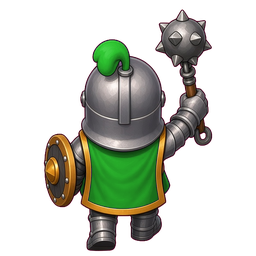
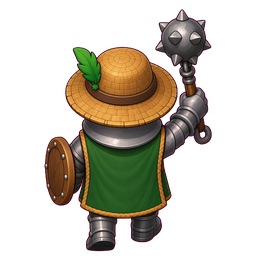
beta v27: illustrated home map, army-colored borders, new region color rules, save v2; longbow/cavalier/Green Army farmer sprites

Changed region(s): [[0.1562, 0.0312, 0.8438, 0.9688]]

diff --git a/beta/story.js b/beta/story.js
@@ -4,14 +4,15 @@
 (function () {
   'use strict';
   // ------------------------------------------------------------------ SAVE (localStorage, versioned)
-  const SAVE_KEY = 'royalBlight.story', SAVE_V = 1;
-  const freshSave = () => ({ v: SAVE_V, gold: 0, xp: 0, missions: {}, unlocks: ['pawn:sword', 'archer:long', 'worker', 'turret'], seen: [], created: Date.now() });
+  const SAVE_KEY = 'royalBlight.story', SAVE_V = 2;   // v27: v2 = illustrated map + new color rules (mapV)
+  const freshSave = () => ({ v: SAVE_V, gold: 0, xp: 0, missions: {}, unlocks: ['pawn:sword', 'archer:long', 'worker', 'turret'], seen: [], created: Date.now(), mapV: 2 });
   function migrate(s) {
     if (!s || typeof s !== 'object') return freshSave();
     const f = freshSave();
     const out = { v: SAVE_V, gold: Math.max(0, Math.floor(+s.gold || 0)), xp: Math.max(0, Math.floor(+s.xp || 0)),
       missions: {}, unlocks: Array.isArray(s.unlocks) ? s.unlocks.filter(x => typeof x === 'string').slice(0, 500) : f.unlocks,
-      seen: Array.isArray(s.seen) ? s.seen.filter(x => typeof x === 'string').slice(0, 500) : [], created: +s.created || Date.now() };
+      seen: Array.isArray(s.seen) ? s.seen.filter(x => typeof x === 'string').slice(0, 500) : [], created: +s.created || Date.now(),
+      mapV: 2, migratedFrom: (s.v | 0) < 2 ? (s.v | 0) || 1 : (s.migratedFrom || 0) };   // v1 -> v2: progress is derived from wins, so nothing is lost
     f.unlocks.forEach(u => { if (!out.unlocks.includes(u)) out.unlocks.push(u); });
     if (s.missions && typeof s.missions === 'object') for (const [id, m] of Object.entries(s.missions)) {
       if (!/^[A-Z0-9_]{2,8}$/.test(id) || !m) continue;
@@ -35,12 +36,12 @@
   // ------------------------------------------------------------------ WORLD DATA (from STORY_BIBLE.md)
   const G = { G1: 100, G2: 150, G3: 250, G4: 400, G5: 600 }, X = { X1: 50, X2: 80, X3: 120 };
   const REGIONS = {
-    paradale:  { name: 'Paradale',  ruler: 'King Rufus', dir: 'center', pos: [50, 50], missions: ['P0'], hub: true, cards: [] },
-    eastmarch: { name: 'Eastmarch', ruler: 'King Felix', dir: 'east', pos: [80, 50], missions: ['M01', 'M02', 'M03', 'M04', 'M05', 'M06', 'M07'],
+    paradale:  { name: 'Paradale',  ruler: 'King Rufus', dir: 'center', pos: [50, 47], missions: ['P0'], hub: true, cards: [] },
+    eastmarch: { name: 'Eastmarch', ruler: 'King Felix', dir: 'east', pos: [84, 52], missions: ['M01', 'M02', 'M03', 'M04', 'M05', 'M06', 'M07'],
                  cards: [['map:farmland', '\u{1F33E}', 'Burning Farmland map'], ['pawn:shield', '\u{1F6E1}', 'Sword & Shield pawn'], ['army:green', '\u{1F49A}', 'Green Army + King Felix'], ['archer:flame', '\u{1F525}', 'Flame Arrow archer'], ['hero:cavalier', '\u{1F40E}', 'The Cavalier']] },
-    westreach: { name: 'Westreach', ruler: 'King Glade', dir: 'west', pos: [20, 50], missions: [], count: 8, soon: true, cards: [['map:library', '\u{1F4DA}', '?'], ['wizard:base', '\u{1F52E}', '?']] },
-    northcrag: { name: 'Northcrag', ruler: 'King Cline', dir: 'north', pos: [50, 20], missions: [], count: 8, soon: true, cards: [['map:pass', '\u26F0', '?']] },
-    southmire: { name: 'Southmire', ruler: 'General Drevlar', dir: 'south', pos: [50, 80], missions: [], count: 8, soon: true, cards: [['map:swamp', '\u{1F480}', '?']] }
+    westreach: { name: 'Westreach', ruler: 'King Glade', dir: 'west', pos: [16, 50], missions: [], count: 8, soon: true, cards: [['map:library', '\u{1F4DA}', '?'], ['wizard:base', '\u{1F52E}', '?']] },
+    northcrag: { name: 'Northcrag', ruler: 'King Cline', dir: 'north', pos: [50, 15], missions: [], count: 8, soon: true, cards: [['map:pass', '\u26F0', '?']] },
+    southmire: { name: 'Southmire', ruler: 'General Drevlar', dir: 'south', pos: [50, 83], missions: [], count: 8, soon: true, cards: [['map:swamp', '\u{1F480}', '?']] }
   };
   // Mission definitions. Engine keys:
   //  ai {level, strat, income, think}, gold (start), cards (allowed player cards), cap (max player army), map,
@@ -111,14 +112,29 @@
   // ------------------------------------------------------------------ PROGRESS / COLORS
   const won = id => (SAVE.missions[id] && SAVE.missions[id].wins > 0);
   function regionColor(rk) {
-    const r = REGIONS[rk]; if (r.hub) return won('P0') ? 'blue' : 'blue';
-    const ms = r.missions, n = ms.length || r.count; if (!ms.length) return 'red';
+    // v27 color rules: every region starts GREEN (peace). After the Prologue the realm turns YELLOW (contact lost),
+    // except Eastmarch which goes RED (Felix's Green Army is burning it). Then red -> orange -> yellow -> lightgreen -> green.
+    const r = REGIONS[rk]; if (!won('P0')) return 'green';
+    if (r.hub) return 'blue';
+    const ms = r.missions, n = ms.length || r.count; if (!ms.length) return rk === 'eastmarch' ? 'red' : 'yellow';
     const w = ms.filter(won).length, final = ms[ms.length - 1];
     if (won(final)) return 'green';
     if (w === 0) return 'red';
     if (w === n - 1) return 'lightgreen';
     if (w >= Math.ceil(n / 2)) return 'yellow';
     return 'orange';
+  }
+  // v27 controlling army per region (border color). A freed region flies the Royal Blue of Paradale.
+  const ARMY = { paradale: ['Royal Blue', '#2563eb'], eastmarch: ['Green Army', '#22c55e'], westreach: ['Yellow Army', '#eab308'], northcrag: ['Silver Army', '#e5e7eb'], southmire: ['Grave Purple', '#9333ea'] };
+  function controller(rk) { const r = REGIONS[rk]; if (r.hub || (r.missions.length && won(r.missions[r.missions.length - 1]))) return ARMY.paradale; return ARMY[rk]; }
+  const MAP_C = [50, 47], DIRA = { east: 0, south: 90, west: 180, north: 270 };
+  function regionPath(rk) {             // wedge between the capital ring and the coast, in 0-100 map space
+    const r = REGIONS[rk], [cx, cy] = MAP_C, P = [];
+    if (r.hub) { for (let i = 0; i < 24; i++) { const a = i / 24 * Math.PI * 2; P.push([cx + Math.cos(a) * 17, cy + Math.sin(a) * 15]); } }
+    else { const a0 = (DIRA[r.dir] - 44) * Math.PI / 180, a1 = (DIRA[r.dir] + 44) * Math.PI / 180;
+      for (let i = 0; i <= 12; i++) { const a = a0 + (a1 - a0) * i / 12, w = 1 + 0.05 * Math.sin(i * 1.7); P.push([cx + Math.cos(a) * 45 * w, cy + Math.sin(a) * 44 * w]); }
+      for (let i = 12; i >= 0; i--) { const a = a0 + (a1 - a0) * i / 12; P.push([cx + Math.cos(a) * 19, cy + Math.sin(a) * 17]); } }
+    return 'M' + P.map(p => p[0].toFixed(1) + ' ' + p[1].toFixed(1)).join(' L') + ' Z';
   }
   const COLOR = { red: '#dc2626', orange: '#f97316', yellow: '#facc15', lightgreen: '#86efac', green: '#16a34a', blue: '#3b82f6' };
   function missionOpen(id) { const m = M[id], ms = REGIONS[m.region].missions, i = ms.indexOf(id); return i <= 0 || won(ms[i - 1]); }
@@ -497,17 +513,22 @@
     $('modal-menu').classList.add('hidden'); $('modal-gameover').classList.add('hidden'); $('modal-story').classList.remove('hidden');
     $('st-purse').textContent = `\u{1FA99} ${SAVE.gold}  \u2B50 XP ${SAVE.xp} (Lv ${level()})`;
     const map = $('st-map');
-    const paths = Object.values(REGIONS).filter(r => !r.hub).map(r => `<line x1="50" y1="50" x2="${r.pos[0]}" y2="${r.pos[1]}" stroke="#a16207" stroke-width="0.8" stroke-dasharray="2 1.5"/>`).join('');
-    map.innerHTML = `<svg viewBox="0 0 100 100" class="absolute inset-0 w-full h-full">${paths}<circle cx="50" cy="50" r="46" fill="none" stroke="#e7e5e4" stroke-opacity="0.12" stroke-width="6" stroke-dasharray="3 4"/></svg>` +
+    // v27: illustrated kingdom map; each region = progress-tinted area with a border in its controlling army's color
+    const shapes = Object.keys(REGIONS).map(k => { const col = COLOR[regionColor(k)], [an, ac] = controller(k);
+      return `<path d="${regionPath(k)}" fill="${col}" fill-opacity="0.26" stroke="#000" stroke-opacity="0.45" stroke-width="2.4" stroke-linejoin="round"/>` +
+             `<path d="${regionPath(k)}" fill="none" stroke="${ac}" stroke-width="1.3" stroke-linejoin="round" stroke-dasharray="${REGIONS[k].hub ? 'none' : '3 1.2'}"><title>${an}</title></path>`; }).join('');
+    map.style.background = "url('assets/kingdom_map.jpg') center/cover"; map.style.borderRadius = '14px'; map.style.boxShadow = '0 6px 24px #0009';
+    map.innerHTML = `<svg viewBox="0 0 100 100" class="absolute inset-0 w-full h-full">${shapes}</svg>` +
       Object.entries(REGIONS).map(([k, r]) => {
         const col = regionColor(k), w = r.missions.filter(won).length, n = r.missions.length || r.count;
         const pulse = col === 'lightgreen' ? 'animation:stpulse 1.2s infinite' : '';
+        const [an, ac] = controller(k), sz = r.hub ? 40 : 34;
         return `<button data-region="${k}" class="absolute -translate-x-1/2 -translate-y-1/2 flex flex-col items-center" style="left:${r.pos[0]}%;top:${r.pos[1]}%">
-          <div class="rounded-full border-4 border-black/40 shadow-xl flex items-center justify-center text-xl" style="width:${r.hub ? 64 : 56}px;height:${r.hub ? 64 : 56}px;background:${COLOR[col]};${pulse}">${r.hub ? '\u{1F3F0}' : r.soon ? '\u2601' : '\u{1F3F0}'}</div>
-          <div class="mt-0.5 px-1.5 rounded bg-black/70 text-[10px] font-black text-white leading-tight">${r.name}<br><span class="text-[9px] font-bold" style="color:${COLOR[col]}">${r.soon ? 'coming soon' : r.hub ? (won('P0') ? 'Prologue \u2713' : 'Prologue') : w + '/' + n}</span></div></button>`;
+          <div class="rounded-full shadow-xl flex items-center justify-center text-base" style="width:${sz}px;height:${sz}px;background:${COLOR[col]};border:3px solid ${ac};${pulse}">${r.hub ? '\u{1F3F0}' : r.soon ? '\u2601' : '\u2694'}</div>
+          <div class="mt-0.5 px-1.5 rounded bg-black/70 text-[10px] font-black text-white leading-tight">${r.name}<br><span class="text-[9px] font-bold" style="color:${COLOR[col]}">${r.soon ? 'coming soon' : r.hub ? (won('P0') ? 'Prologue \u2713' : 'Prologue') : w + '/' + n}</span><br><span class="text-[8px] font-bold" style="color:${ac}">${an}</span></div></button>`;
       }).join('') + `<style>@keyframes stpulse{0%,100%{box-shadow:0 0 0 0 #86efac}50%{box-shadow:0 0 0 10px #86efac00}}</style>`;
     map.querySelectorAll('button[data-region]').forEach(b => b.onclick = () => S.openRegion(b.dataset.region));
-    $('st-legend').innerHTML = [['red', 'Not started'], ['orange', '1+ win'], ['yellow', 'Last half'], ['lightgreen', 'Final left'], ['green', 'Cleared']].map(([c, t]) => `<span class="px-1.5 py-0.5 rounded" style="background:${COLOR[c]}33;border:1px solid ${COLOR[c]}">${t}</span>`).join('');
+    $('st-legend').innerHTML = (won('P0') ? [['red', 'Under attack'], ['orange', '1+ win'], ['yellow', 'Contested / no contact'], ['lightgreen', 'Final left'], ['green', 'Freed']] : [['green', 'At peace \u2014 play the Prologue']]).map(([c, t]) => `<span class="px-1.5 py-0.5 rounded" style="background:${COLOR[c]}33;border:1px solid ${COLOR[c]}">${t}</span>`).join('');
     S.openRegion(S.curRegion || (won('P0') ? 'eastmarch' : 'paradale'));
   };
   S.openRegion = function (rk) {

diff --git a/beta/index.html b/beta/index.html
@@ -11,7 +11,7 @@
   <link rel="manifest" href="manifest.json">
   <link rel="apple-touch-icon" href="assets/icons/apple-touch-icon.png">
   <link rel="icon" type="image/png" sizes="192x192" href="assets/icons/icon-192.png">
-  <title>Royal Blight BETA v26</title>
+  <title>Royal Blight BETA v27</title>
   <!-- Tailwind CSS CDN -->
   <script src="assets/tailwind.js"></script>
   <!-- Google Fonts: Fredoka for chunky mobile strategy UI, Inter for crisp stats -->
@@ -303,7 +303,7 @@
     <div id="modal-menu" class="absolute inset-0 z-50 bg-black/80 backdrop-blur-md flex flex-col items-center justify-center p-6 text-center">
       <div class="text-5xl mb-2">👑 ⚔ 💀</div>
       <h1 class="text-3xl font-black text-amber-400 uppercase tracking-wider">Royal Blight</h1>
-      <p class="text-slate-300 text-xs mb-6">King vs Necromancer &middot; Tug of War &middot; <span class="text-amber-300 font-black">BETA v26</span></p>
+      <p class="text-slate-300 text-xs mb-6">King vs Necromancer &middot; Tug of War &middot; <span class="text-amber-300 font-black">BETA v27</span></p>
       <div class="w-full max-w-xs bg-slate-800/90 rounded-xl p-4 border border-slate-700 mb-4">
         <div class="text-xs font-black text-slate-200 uppercase tracking-wider mb-2">Play vs Computer</div>
         <div class="grid grid-cols-2 gap-2 mb-3">
@@ -3892,7 +3892,7 @@
   <script src="story.js"></script>
   <script>
     // v24.1 update flow: network-first SW, update checks on load/focus, version.json poll, one guarded reload.
-    window.APP_VERSION = 'v26';
+    window.APP_VERSION = 'v27';
     (function () {
       const busy = () => { try { return !!(state.started && !state.gameOver); } catch (e) { return false; } };
       let shown = false;

diff --git a/beta/sw.js b/beta/sw.js
@@ -1,8 +1,8 @@
 // Bump CACHE_VERSION whenever any file changes so phones pick up the update.
-const CACHE_VERSION = 'royal-blight-beta-v26';   // BETA build (/royal-blight/beta/): own cache namespace
+const CACHE_VERSION = 'royal-blight-beta-v27';   // BETA build (/royal-blight/beta/): own cache namespace
 const CORE = [
   './', './index.html', './manifest.json', './mp.js', './story.js', './assets/lib/qrcode.js', './assets/lib/jsQR.js', './assets/lib/peerjs.min.js',
-  './assets/tailwind.js', './assets/fonts/fonts.css',
+  './assets/tailwind.js', './assets/kingdom_map.jpg', './assets/fonts/fonts.css',
   './assets/fonts/f0.woff2',
   './assets/fonts/f1.woff2',
   './assets/fonts/f2.woff2',
